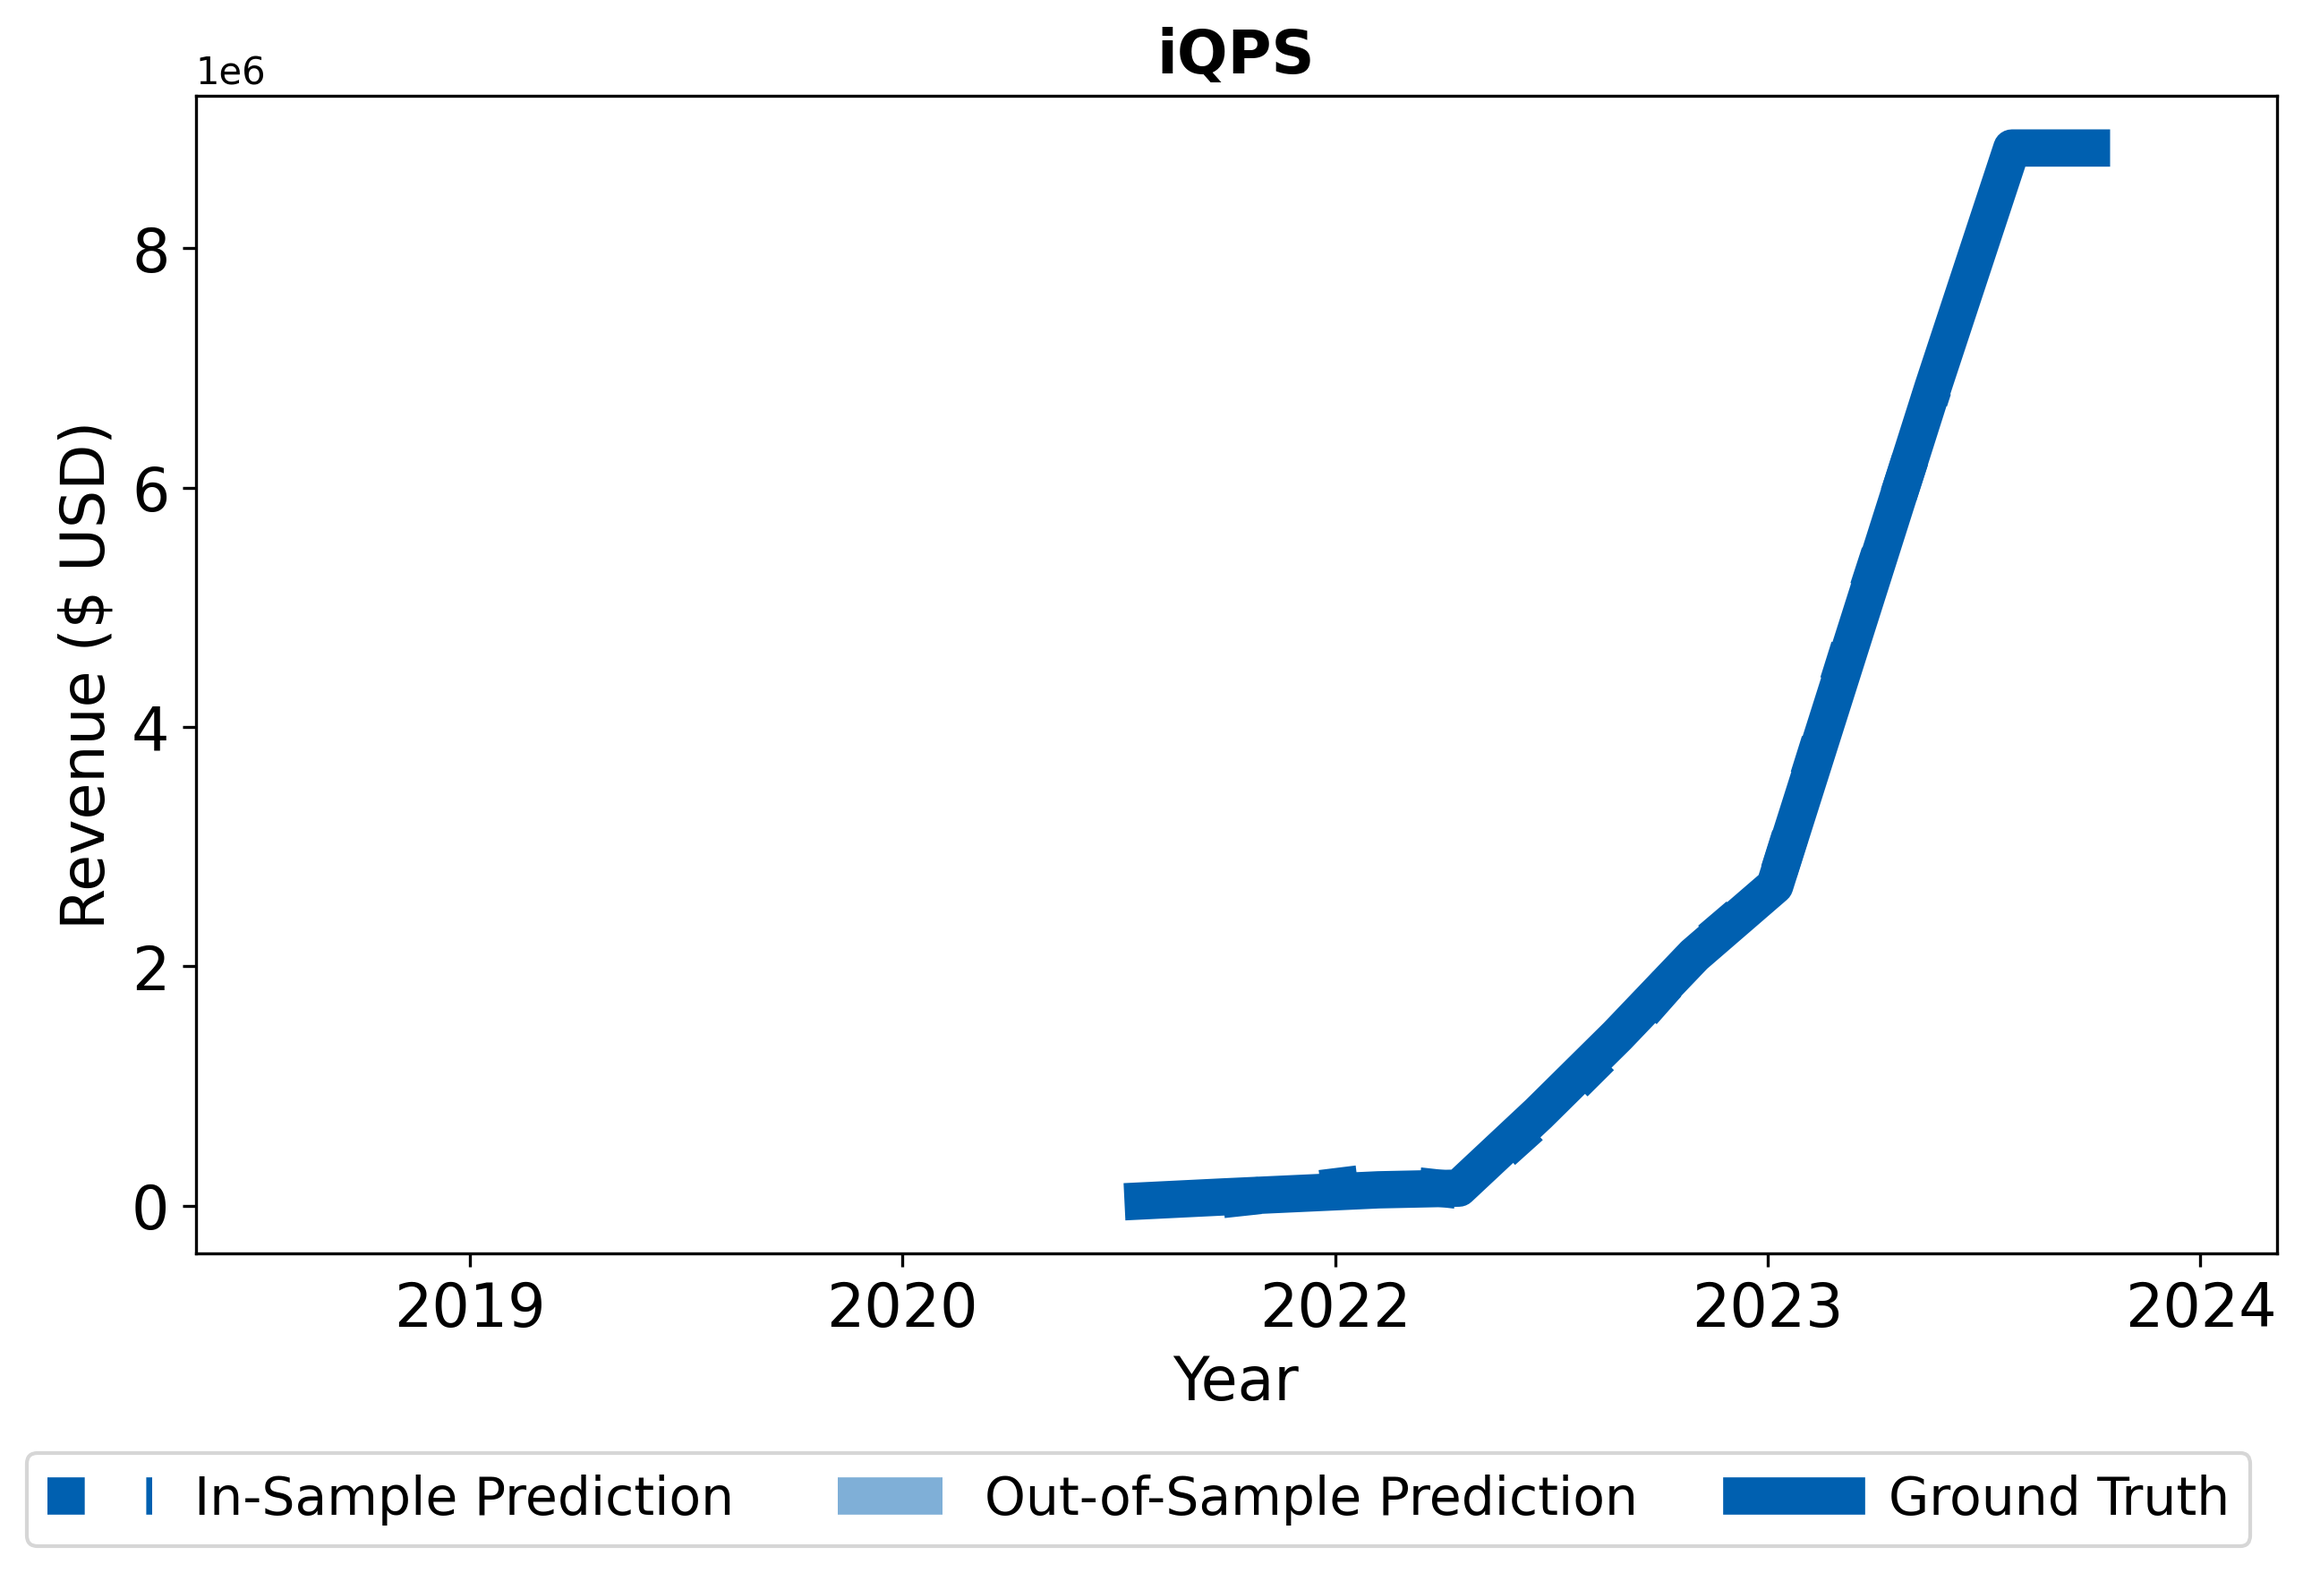
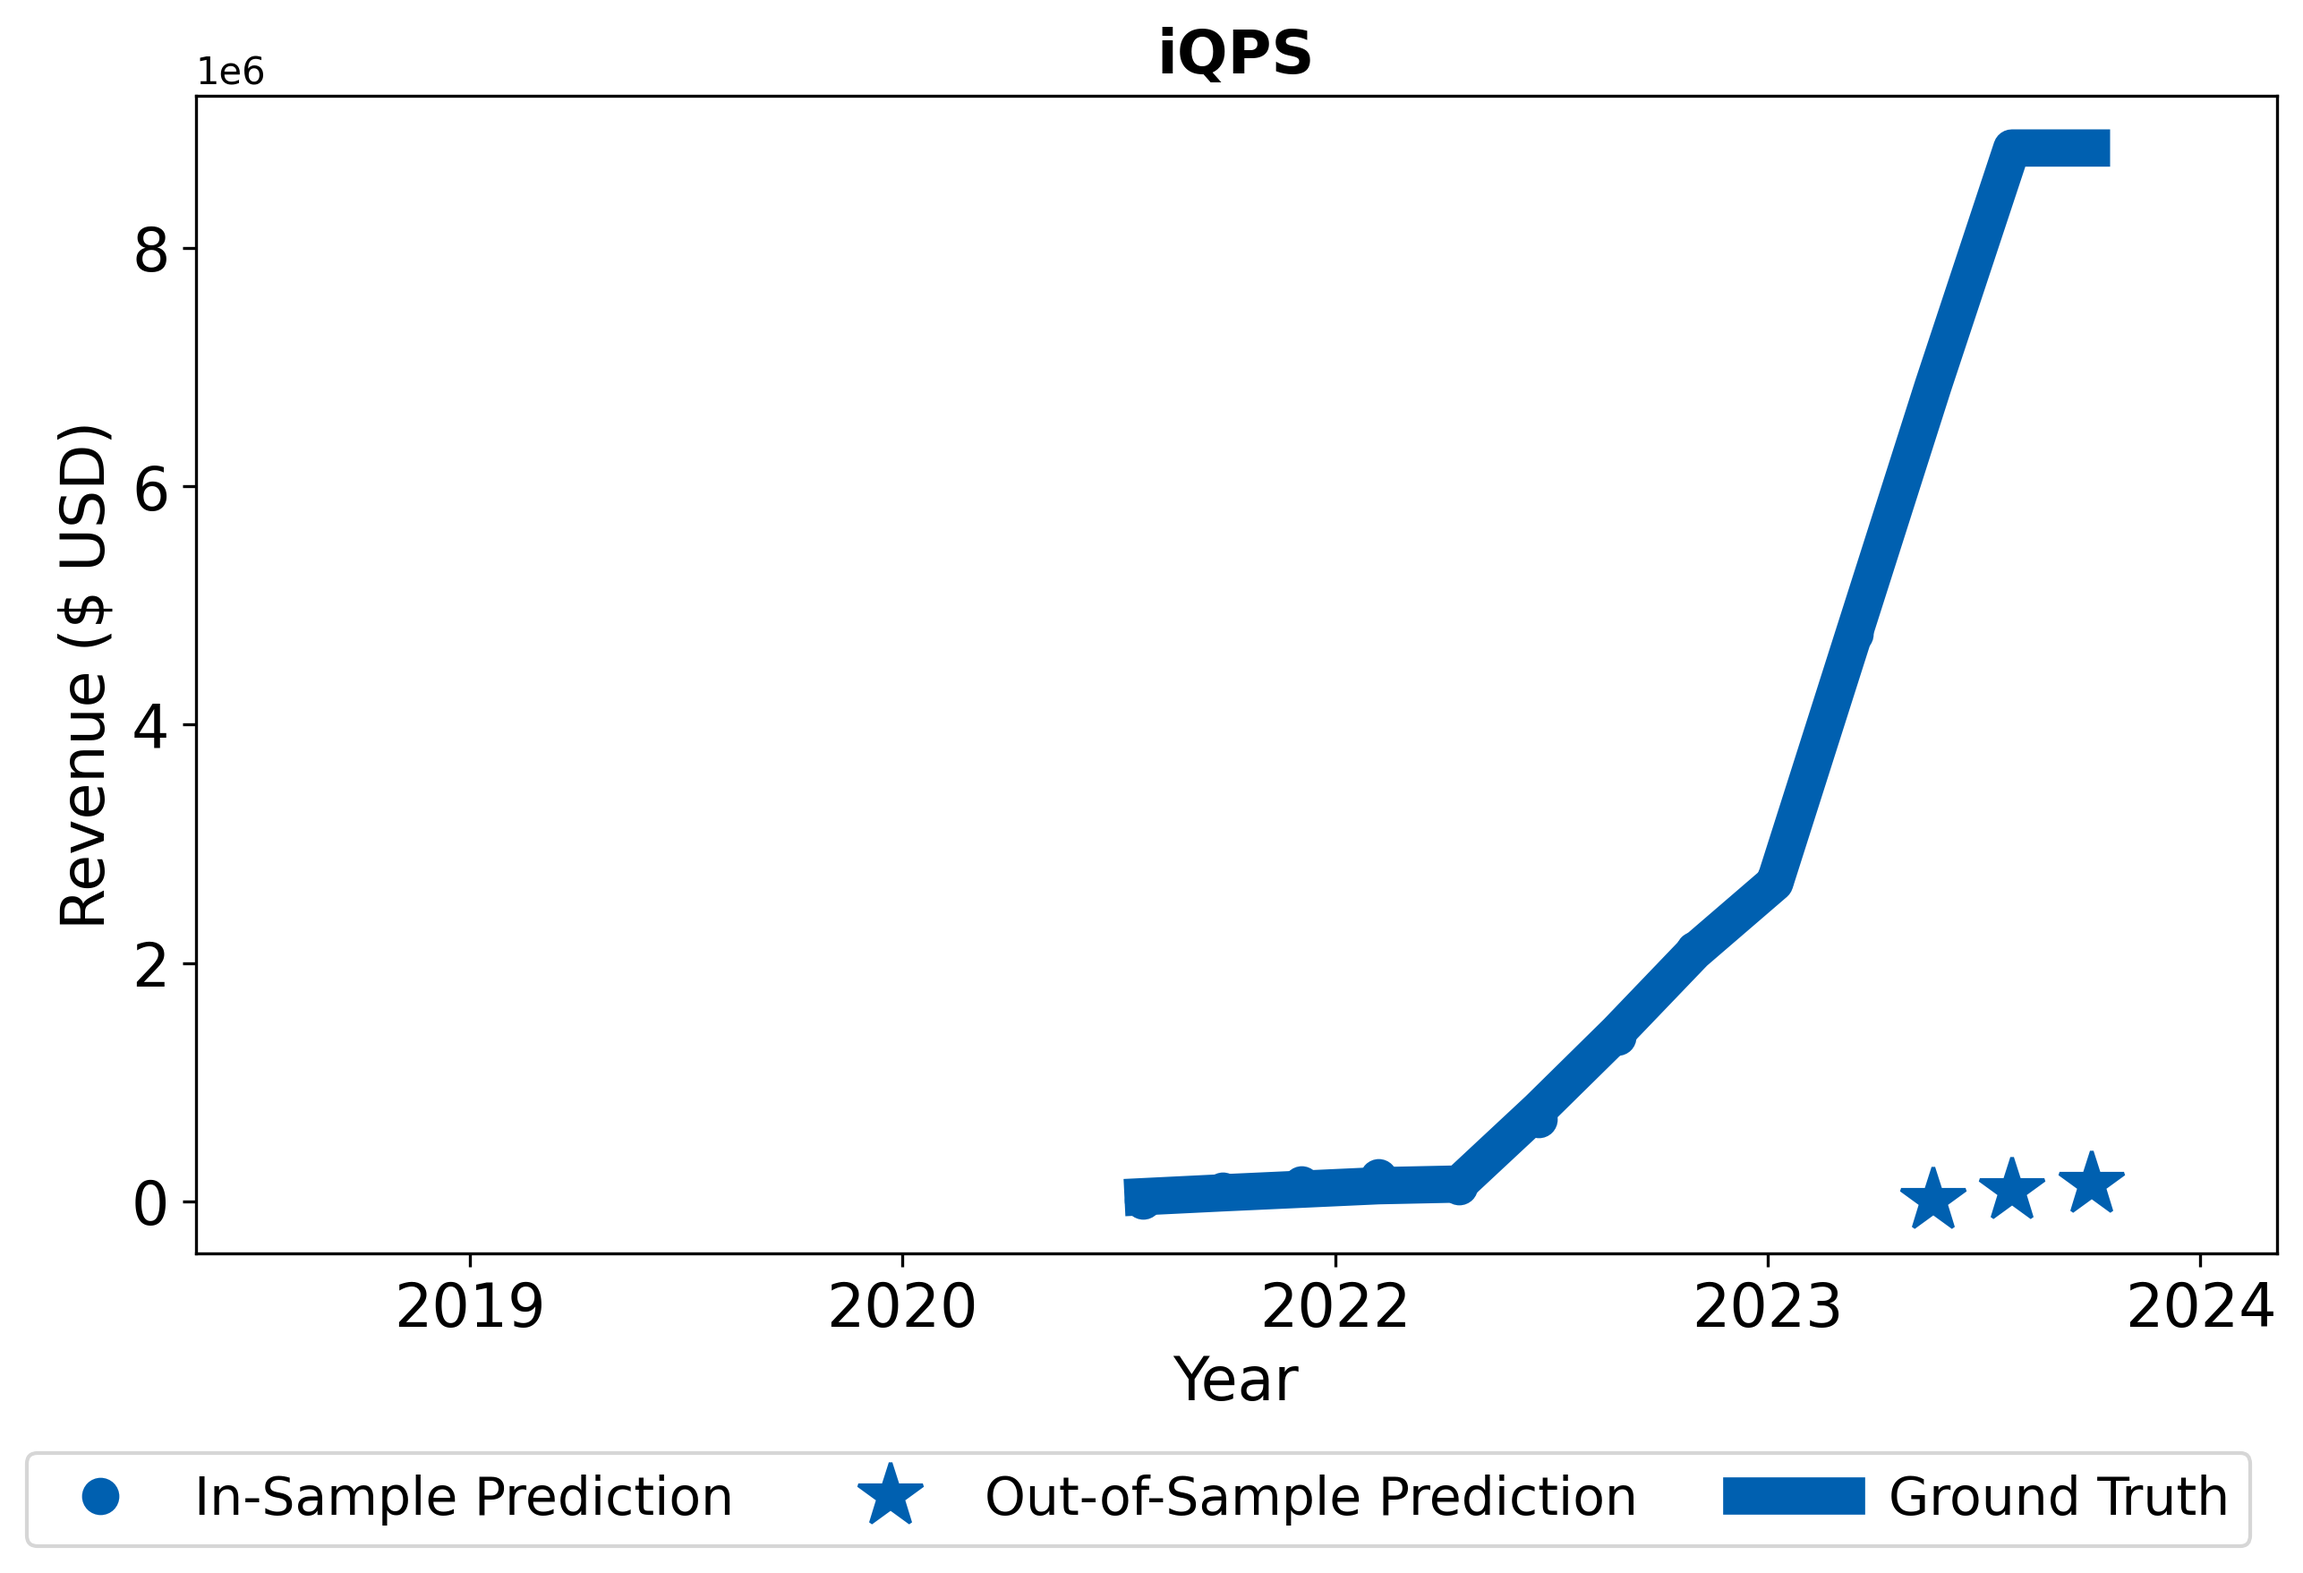
[PLOT] update marker style for prediction plotting

diff --git a/src/plot_utils.py b/src/plot_utils.py
@@ -45,8 +45,8 @@ def plotPredictions(fig, ax, company, companyMetadata, time=None, inSamplePredic
         ax.xaxis.set_major_locator(ticker.MaxNLocator(nbins=5))
         ax.yaxis.set_major_locator(ticker.MaxNLocator(nbins=5))
         ax.set_xlim([pd.to_datetime('2018-06-01'), pd.to_datetime('2024-12-31')])
-        ax.plot(time[:-split], inSamplePrediction, color=company_color, linestyle="dotted", label="In-Sample Prediction", linewidth=10)
-        ax.plot(time[-split:], outSamplePrediction, color=company_color, alpha=0.5, linestyle="dashed", label="Out-of-Sample Prediction", linewidth=10)
+        ax.plot(time[:-split], inSamplePrediction, color=company_color, linestyle="", marker=".", markersize=18, label="In-Sample Prediction")
+        ax.plot(time[-split:], outSamplePrediction, color=company_color, marker="*", markersize=18, linestyle="", label="Out-of-Sample Prediction")
         ax.plot(time, ground_truth, color=company_color, linestyle="solid", label="Ground Truth", linewidth=10)
         ax.legend(ncol=3, bbox_to_anchor=(1.0, -0.15), fancybox=True, fontsize='14', frameon=True)
         box = ax.get_position()
@@ -62,8 +62,8 @@ def plotPredictions(fig, ax, company, companyMetadata, time=None, inSamplePredic
         ax.set_yscale('log')
         ax.set_xlim([pd.to_datetime('2018-06-01'), pd.to_datetime('2024-12-31')])
         ax.set_ylim([1, 10**9])
-        ax.plot(time[:-split], inSamplePrediction, color=company_color, linestyle="dotted", linewidth=12)
-        ax.plot(time[-split:], outSamplePrediction, color=company_color, alpha=0.5, linestyle="dashed", linewidth=12)
+        ax.plot(time[:-split], inSamplePrediction, color=company_color, linestyle="", marker=".", markersize=18)
+        ax.plot(time[-split:], outSamplePrediction, color=company_color, marker="*", markersize=18, linestyle="")
         ax.plot(time, ground_truth, color=company_color, linestyle="solid", linewidth=12)
     elif company == "Synspective" and plotEverything:
         ax.set_xticks([])
@@ -76,8 +76,8 @@ def plotPredictions(fig, ax, company, companyMetadata, time=None, inSamplePredic
         ax.spines['right'].set_visible(False)
         ax.spines['left'].set_visible(False)
         ax.spines['bottom'].set_visible(False)
-        line1, = ax.plot([], [], color='k', linestyle="dotted", linewidth=12, label='In-Sample Prediction')
-        line2, = ax.plot([], [], color='k', linestyle="dashed", alpha=0.5, linewidth=12, label='Out-of-Sample Prediction')
+        line1, = ax.plot([], [], color='k', linestyle="", marker=".", markersize=18, label='In-Sample Prediction')
+        line2, = ax.plot([], [], color='k', marker="*", markersize=18, linestyle="", label='Out-of-Sample Prediction')
         line3, = ax.plot([], [], color='k', linestyle="solid", linewidth=12, label='Ground Truth Data')
         # Add the legend with specified labels
         fig.legend([line1, line2, line3], ['In-Sample Prediction', 'Out-of-Sample Prediction', 'Ground Truth Data'],

diff --git a/src/process.py b/src/process.py
@@ -184,7 +184,7 @@ for i, company in enumerate(companyMetadata):
     # print("Nonstationary: ", nonstat)
 
     # Use 90% of the data for in-sample training and 10% for out-of-sample evaluation
-    split = int(np.ceil(0.1*len(transformedData['Quarter'])))
+    split = int(np.ceil(0.2*len(transformedData['Quarter'])))
     if company != "Synspective":
         filtered_quarters = pd.to_datetime(transformedData['Quarter'])
 
